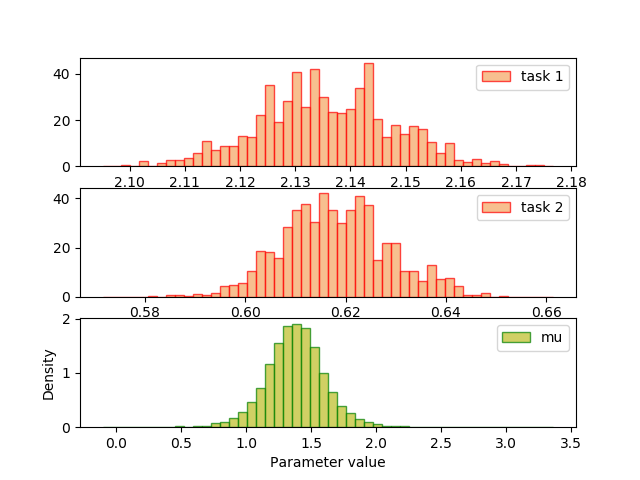
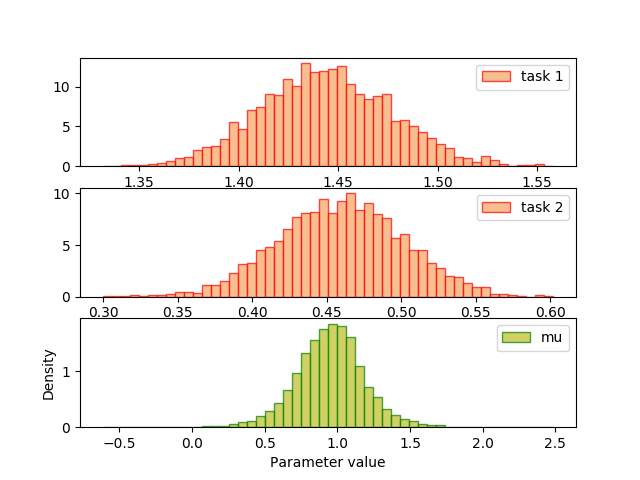
experiment parameters modified

diff --git a/mcmc-transfer-learning/experiment_network.py b/mcmc-transfer-learning/experiment_network.py
@@ -1,4 +1,4 @@
-topology# !/usr/bin/python
+# !/usr/bin/python
 from __future__ import division, print_function
 import matplotlib
 matplotlib.use('Agg')
@@ -111,25 +111,26 @@ class Network(object):
 class Experiment(object):
     def __init__(self, topology, train_data, test_data, num_samples = 2000):
         self.train_data = train_data
+        self.test_data = test_data
         self.topology = topology
         self.neural_network = Network(topology)
         self.num_tasks = 2
-        self.mu = np.zeros(self.num_tasks)
+        self.w_size = (topology[0] * topology[1]) + (topology[1] * topology[2]) + topology[1] + topology[2]
+        self.mu = np.zeros(self.w_size)
         self.num_obv = np.array([train_data[task].shape[0] for task in range(self.num_tasks)])
         self.sigma_mu_sq = 25
         self.sigma_sq = 1
         self.tau_sq = 0.1
-        self.s_mu_sq = 0.05
-        self.wsize = (topology[0] * topology[1]) + (topology[1] * topology[2]) + topology[1] + topology[2]
+        self.s_sq = 0.05
         self.delta = np.random.normal(self.mu, np.sqrt(self.sigma_sq), (self.num_tasks, self.w_size))
-        self.fx = [self.neural_network.generate_output(self.train_data[task], delta[task]) for task in range(self.num_tasks)]
+        self.fx = [self.neural_network.generate_output(self.train_data[task], self.delta[task]) for task in range(self.num_tasks)]
         self.y = [self.train_data[task][:, self.topology[0]: self.topology[0]+self.topology[2]] for task in range(self.num_tasks)]
         self.Y = np.concatenate(self.y, axis=0)
         # self.F = self.neural_network.generate_output(self.Y, self.mu)
         self.num_samples = num_samples
         self.delta_files = ['delta_'+str(task+1)+'.csv' for task in range(self.num_tasks)]
         self.mu_file = 'mu.csv'
-        self.joint_file ='joint_sampling.csv'
+        self.joint_file ='joint_sampling_network.csv'
 
     # def task_acceptance_ratio(self, y, fx_c, fx_p):
     #     alpha = np.exp(-0.5/self.tau_sq * (np.sum(np.square(y - fx_p)) - np.sum(np.square(y - fx_c))))
@@ -145,8 +146,9 @@ class Experiment(object):
 
     def joint_acceptance_ratio(self, delta_c, delta_p, y, f_c, f_p, mu, tau_sq, sigma_sq):
         diff_likelihood = self.joint_likelihood(y, f_p, tau_sq) - self.joint_likelihood(y, f_c, tau_sq)
+        print("Likelihood: {}".format(self.joint_likelihood(y, f_c, tau_sq)), end=' ')
         diff_prior = self.joint_prior(delta_p, mu, sigma_sq) - self.joint_prior(delta_c, mu, sigma_sq)
-        alpha = min(1, np.exp(diff_likelihood + diff_prior))
+        alpha = min(1, np.exp(min(709, diff_likelihood + diff_prior)))
         return alpha
 
     # task equals 1, 2 or 3
@@ -183,7 +185,7 @@ class Experiment(object):
         file = open(self.joint_file, 'w')
         for sample in range(1, self.num_samples):
             # Propose delta_1 and delta_2
-            delta_p = delta_c + np.random.normal(0, self.s_delta_sq, (self.num_tasks, self.w_size))
+            delta_p = delta_c + np.random.normal(0, self.s_sq, (self.num_tasks, self.w_size))
             # Evaluate function f
             fx_p = [self.neural_network.generate_output(self.train_data[task], delta_p[task]) for task in range(self.num_tasks)]
             # get joint acceptance ratio value
@@ -195,18 +197,19 @@ class Experiment(object):
             # Drawing tau_sq
             tau_a = np.sum(self.num_obv)/2 + tau_a_prior;
             tau_b = tau_b_prior
-            tau_b = tau_b + np.sum(np.array([np.sum(np.square(self.y[task] - delta_c[task]))/2 for task in range(self.num_tasks)]))
+            tau_b = tau_b + np.sum(np.array([np.sum(np.square(self.y[task] - fx_c[task]))/2 for task in range(self.num_tasks)]))
             tau_sq_c = 1 / np.random.gamma(tau_a, tau_b)
             # Save weights
-            # weights = np.concatenate((delta_c, np.array([mu]))).reshape(1, self.num_tasks + 1)
-            # np.savetxt(file, weights, delimiter=',')
-            # print('weights: ', weights)
+            weights = np.concatenate((delta_c[:, 10], np.array([mu[10]]))).reshape(1, self.num_tasks + 1)
+            np.savetxt(file, weights, delimiter=',')
+            print('weights: ', weights, end=' ' )
             # Draw mu
             mu = np.random.normal(delta_c.mean(axis=0), np.sqrt(sigma_sq_c/2))
             # Drawing sigma_sq
             sig_a = self.num_tasks/2 + sig_a_prior
             sig_b = np.sum(np.square(delta_c - mu))/2 + sig_b_prior
-            sigma_sq_c = 1 / np.random.gamma(sig_a, sig_b);
+            sigma_sq_c = 1 / np.random.gamma(sig_a, sig_b)
+            print ("Samples: {}".format(sample))
 
         file.close()
         return
@@ -238,17 +241,29 @@ class Experiment(object):
         plt.legend()
         plt.xlabel('Parameter value')
         plt.ylabel('Density')
-        plt.savefig('joint_weight.png')
+        plt.savefig('joint_weight_network.png')
         plt.clf()
 
 
 if __name__ == '__main__':
-    num_samples = 11000
+    num_samples = 20000
+    topology = [4, 25, 1]
+    train_data = []
+    test_data = []
+    index = 3
+    train_data.append(np.genfromtxt('../datasets/synthetic_data/source'+str(index+1)+'.csv', delimiter=','))
+    train_data.append(np.genfromtxt('../datasets/synthetic_data/target_train.csv', delimiter=','))
+
+    test_data.append(np.genfromtxt('../datasets/synthetic_data/target_test.csv', delimiter=','))
+    test_data.append(np.genfromtxt('../datasets/synthetic_data/target_test.csv', delimiter=','))
+
+    random.seed(time.time())
+
     print("Initializing... ")
-    experiment = Experiment(num_samples)
+    experiment = Experiment(topology, train_data, test_data, num_samples)
     # print("Initialized! Now running sampler..")
     # for task in range(1, 4):
     #     experiment.task_sampler(task)
-    print('Starting joint smapling...')
+    print('Starting joint sampling...')
     experiment.joint_sampler()
     experiment.plot_histogram()

diff --git a/mcmc-transfer-learning/experiment.py b/mcmc-transfer-learning/experiment.py
@@ -100,7 +100,7 @@ class Experiment(object):
             # Drawing tau_sq
             tau_a = np.sum(self.num_obv)/2 + tau_a_prior;
             tau_b = tau_b_prior
-            tau_b = tau_b + np.sum(np.array([np.sum(np.square(self.y[task] - delta_c[task]))/2 for task in range(self.num_tasks)]))
+            tau_b = tau_b + np.sum(np.array([np.sum(np.square(self.y[task] - fx_c[task]))/2 for task in range(self.num_tasks)]))
             tau_sq_c = 1 / np.random.gamma(tau_a, tau_b)
             # Save weights
             weights = np.concatenate((delta_c, np.array([mu]))).reshape(1, self.num_tasks + 1)
